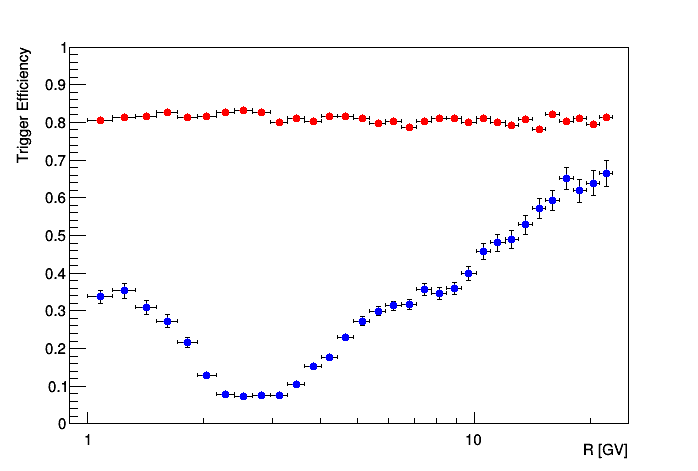
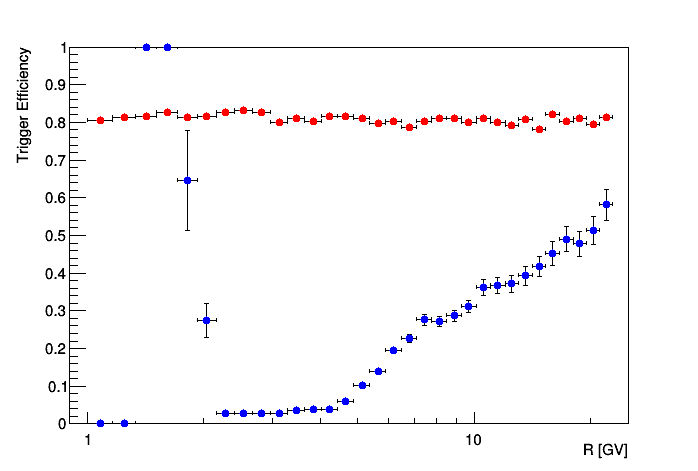
update 23-12-20

diff --git a/ProtonAnalysis.C b/ProtonAnalysis.C
@@ -88,7 +88,7 @@ class Anaaqra {
     double PRate[32]; double PRate_err[32];
     // ProtonFlux()
     double PFlux[32]; double PFlux_err[32];
-    double PSFlux[32];
+    double PSFlux[32]; double PSFlux_err[32];
 
     //----------------------------------------------------------------------------------------------------------------------------------------------------
     // CONSTRUCTORS
@@ -728,16 +728,18 @@ void Anaaqra::CutEff(bool plot_all = 0) {
     // Get entry
     Simp_chain->GetEntry(i);
 
+    bool tof_q = (Tool->tof_q_lay[0] > 0.8)&&(Tool->tof_q_lay[0] < 1.5);
+
     // Fill base histograms
     if (EventSelectorSimple(Tool, "110001111")) {Btof_data->Fill(Tool->trk_rig);}
-    if (EventSelectorSimple(Tool, "111110000")) {Btrk_data->Fill(Tool->trk_rig);}
+    if (EventSelectorSimple(Tool, "111110001") && tof_q) {Btrk_data->Fill(Tool->trk_rig);}
 
     // Fill cut histograms
     if (EventSelectorSimple(Tool, "111001111")) {Cpar_data->Fill(Tool->trk_rig);}
     //if (EventSelectorSimple(Tool, "110101111")) {Ccon_data->Fill(Tool->trk_rig);}
     if (EventSelectorSimple(Tool, "110011111")) {Cbet_data->Fill(Tool->trk_rig);}
-    if (EventSelectorSimple(Tool, "111111000")) {Cchi_data->Fill(Tool->trk_rig);}
-    if (EventSelectorSimple(Tool, "111110100")) {Cinn_data->Fill(Tool->trk_rig);}
+    if (EventSelectorSimple(Tool, "111111001") && tof_q) {Cchi_data->Fill(Tool->trk_rig);}
+    if (EventSelectorSimple(Tool, "111110101") && tof_q) {Cinn_data->Fill(Tool->trk_rig);}
     //if (EventSelectorSimple(Tool, "111110010")) {Clay_data->Fill(Tool->trk_rig);}
 
   }
@@ -869,15 +871,15 @@ void Anaaqra::TrigEff(int delta = 100) {
     MC_chain->GetEntry(i);
 
     // Check for physical trigger
-    bool HasPhysTrigMC = ((MC_comp->sublvl1&0x3E)!=0)&&((MC_comp->trigpatt&0x2)!=0);
-    bool HasUnphTrigMC = ((MC_comp->sublvl1&0x3E)==0)&&((MC_comp->trigpatt&0x2)!=0);
+    bool HasPhysTrig_mc = ((MC_comp->sublvl1&0x3E)!=0)&&((MC_comp->trigpatt&0x2)!=0);
+    bool HasUnphTrig_mc = ((MC_comp->sublvl1&0x3E)==0)&&((MC_comp->trigpatt&0x2)!=0);
 
     // Fill histograms
     if (EventSelectorCompact(MC_comp, "10111111")) {
-      if (HasPhysTrig_MC) {
+      if (HasPhysTrig_mc) {
         PhysHist_mc->Fill(MC_comp->trk_rig[0]);
       }
-      if (HasUnphTrig_MC) {
+      if (HasUnphTrig_mc) {
         UnphHist_mc->Fill(MC_comp->trk_rig[0]);
       }
     }
@@ -895,7 +897,7 @@ void Anaaqra::TrigEff(int delta = 100) {
     bool HasUnphTrig_data = ((Tool->sublvl1&0x3E)==0)&&((Tool->trigpatt&0x2)!=0);
 
     // Fill histograms
-    if (EventSelectorSimple(Tool, "101111110")) {
+    if (EventSelectorSimple(Tool, "101111111")) {
       if (HasPhysTrig_data) {
         PhysHist_data->Fill(Tool->trk_rig);
       }
@@ -1026,6 +1028,7 @@ void Anaaqra::ProtonFlux() {
       FluxHist->SetBinContent(i+1, Events_cut->GetBinContent(i+1) / ExposureTime->GetBinContent(i+1)
                                    / 2 / Bin_err[i] / AcceptHist->GetBinContent(i+1)
                                    / CutEff_data->GetBinContent(i+1) * CutEff_MC->GetBinContent(i+1)
+                                   / TrigEff_data->GetBinContent(i+1) * TrigEff_MC->GetBinContent(i+1)
                              );
       PFlux_err[i] = FluxHist->GetBinContent(i+1) * TMath::Sqrt(1/Events_cut->GetBinContent(i+1)
                      + pow(TE_mc_err[i]/TE_mc[i], 2) + pow(TE_data_err[i]/TE_data[i], 2)
@@ -1056,8 +1059,9 @@ void Anaaqra::ProtonFlux() {
   // TGraph 2/2
   for (int i=0; i<Bin_num; i++) {
     PSFlux[i] = FluxHist->GetBinContent(i+1) * pow(Bin_mid[i], 2.7);
+    PSFlux_err[i] = PFlux_err[i] * pow(Bin_mid[i], 2.7);
   }
-  TGraphErrors* p_sflux_graph = new TGraphErrors(32, Bin_mid, PSFlux, Bin_err, 0);
+  TGraphErrors* p_sflux_graph = new TGraphErrors(32, Bin_mid, PSFlux, Bin_err, PSFlux_err);
   // Canvas
   TCanvas* c_SFlux = new TCanvas("c_SFlux", "Scaled Proton Flux per Rigitidy Bin");
   p_sflux_graph->Draw("AP");
